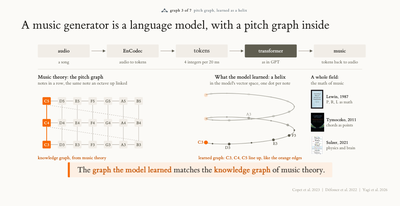
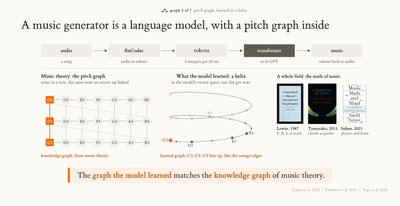
Slide 6: helix moved next to the pitch graph, books larger in a row with sharper covers, keybox lower. Thumbs regenerated
Claude-Session: https://claude.ai/code/session_01CwywQbHke1EKdwXqbCrAvs

diff --git a/graph-inside/2026-11-19-cs-colloquium/index.html b/graph-inside/2026-11-19-cs-colloquium/index.html
@@ -780,11 +780,11 @@ var t=setInterval(function(){if(window.Reveal&&Reveal.on){clearInterval(t);Revea
 
 <section data-ch="0">
   <h2>A music generator is a language model, with a pitch graph inside</h2><span class="graphtag"><svg viewBox="0 0 22 14"><line x1="3" y1="11" x2="11" y2="3" stroke="currentColor" stroke-width="1.3"/><line x1="11" y1="3" x2="19" y2="11" stroke="currentColor" stroke-width="1.3"/><line x1="3" y1="11" x2="19" y2="11" stroke="currentColor" stroke-width="1.3"/><circle cx="3" cy="11" r="2.4" fill="currentColor"/><circle cx="11" cy="3" r="2.4" fill="currentColor"/><circle cx="19" cy="11" r="2.4" fill="currentColor"/></svg><b>graph 3 of 7</b> pitch graph, learned as a helix</span>
-  <svg viewBox="0 0 1180 424" style="width:100%;max-width:1160px;height:auto;max-height:424px;display:block;margin:0 auto"><defs><marker id="maa" viewBox="0 0 10 10" refX="8" refY="5" markerWidth="6" markerHeight="6" orient="auto-start-reverse"><path d="M0,0 L10,5 L0,10 z" fill="#5F5D50"/></marker><marker id="mao" viewBox="0 0 10 10" refX="8" refY="5" markerWidth="6" markerHeight="6" orient="auto-start-reverse"><path d="M0,0 L10,5 L0,10 z" fill="#F76902"/></marker><marker id="mat" viewBox="0 0 10 10" refX="8" refY="5" markerWidth="6" markerHeight="6" orient="auto-start-reverse"><path d="M0,0 L10,5 L0,10 z" fill="#4C5B66"/></marker><marker id="mak" viewBox="0 0 10 10" refX="8" refY="5" markerWidth="6" markerHeight="6" orient="auto-start-reverse"><path d="M0,0 L10,5 L0,10 z" fill="#1F1E1B"/></marker><marker id="mag" viewBox="0 0 10 10" refX="8" refY="5" markerWidth="6" markerHeight="6" orient="auto-start-reverse"><path d="M0,0 L10,5 L0,10 z" fill="#ACA39A"/></marker><radialGradient id="magl"><stop offset="0" stop-color="#F76902" stop-opacity=".5"/><stop offset="1" stop-color="#F76902" stop-opacity="0"/></radialGradient><radialGradient id="magt"><stop offset="0" stop-color="#4C5B66" stop-opacity=".45"/><stop offset="1" stop-color="#4C5B66" stop-opacity="0"/></radialGradient></defs><defs><marker id="axk" viewBox="0 0 10 10" refX="8" refY="5" markerWidth="5" markerHeight="5" orient="auto"><path d="M0,0 L10,5 L0,10 z" fill="#1F1E1B"/></marker></defs><rect x="40" y="24" width="176" height="44" rx="3" fill="#F1EDE7" stroke="none" stroke-width="0" /><text x="128.0" y="51" font-size="17.5" font-weight="600" fill="#1F1E1B" text-anchor="middle" >audio</text><text x="128.0" y="88" font-size="15" font-weight="400" fill="#5F5D50" text-anchor="middle" >a song</text><path d="M222,46 L268,46" stroke="#ACA39A" stroke-width="1.6" fill="none" marker-end="url(#maa)"/><rect x="274" y="24" width="176" height="44" rx="3" fill="#F1EDE7" stroke="none" stroke-width="0" /><text x="362.0" y="51" font-size="17.5" font-weight="600" fill="#1F1E1B" text-anchor="middle" >EnCodec</text><text x="362.0" y="88" font-size="15" font-weight="400" fill="#5F5D50" text-anchor="middle" >audio to tokens</text><path d="M456,46 L502,46" stroke="#ACA39A" stroke-width="1.6" fill="none" marker-end="url(#maa)"/><rect x="508" y="24" width="176" height="44" rx="3" fill="#F1EDE7" stroke="none" stroke-width="0" /><text font-family="et-book,Georgia,serif" style="font-size-adjust:none" x="596.0" y="51" font-size="20.8" font-weight="400" fill="#1F1E1B" text-anchor="middle" >tokens</text><text x="596.0" y="88" font-size="15" font-weight="400" fill="#5F5D50" text-anchor="middle" >4 integers per 20 ms</text><path d="M690,46 L736,46" stroke="#ACA39A" stroke-width="1.6" fill="none" marker-end="url(#maa)"/><rect x="742" y="24" width="176" height="44" rx="3" fill="#5F5D50" stroke="none" stroke-width="0" /><text x="830.0" y="51" font-size="17.5" font-weight="600" fill="#fff" text-anchor="middle" >transformer</text><text x="830.0" y="88" font-size="15" font-weight="400" fill="#5F5D50" text-anchor="middle" >as in GPT</text><path d="M924,46 L970,46" stroke="#ACA39A" stroke-width="1.6" fill="none" marker-end="url(#maa)"/><rect x="976" y="24" width="176" height="44" rx="3" fill="#F1EDE7" stroke="none" stroke-width="0" /><text x="1064.0" y="51" font-size="17.5" font-weight="600" fill="#1F1E1B" text-anchor="middle" >music</text><text x="1064.0" y="88" font-size="15" font-weight="400" fill="#5F5D50" text-anchor="middle" >tokens back to audio</text><line x1="40" y1="108" x2="1140" y2="108" stroke="#D7D2CB" stroke-width="1" /><g class="fragment" data-fragment-index="1"><text x="40" y="140" font-size="18.5" font-weight="600" fill="#1F1E1B" text-anchor="start" >Music theory: the pitch graph</text><text x="40" y="160" font-size="15.5" font-weight="400" fill="#5F5D50" text-anchor="start" >notes in a row, the same note an octave up linked</text><line x1="84" y1="364" x2="108" y2="364" stroke="#ACA39A" stroke-width="1.4" /><line x1="136" y1="364" x2="160" y2="364" stroke="#ACA39A" stroke-width="1.4" /><line x1="188" y1="364" x2="212" y2="364" stroke="#ACA39A" stroke-width="1.4" /><line x1="240" y1="364" x2="264" y2="364" stroke="#ACA39A" stroke-width="1.4" /><line x1="292" y1="364" x2="316" y2="364" stroke="#ACA39A" stroke-width="1.4" /><line x1="344" y1="364" x2="368" y2="364" stroke="#ACA39A" stroke-width="1.4" /><line x1="382" y1="351" x2="70" y2="303" stroke="#ACA39A" stroke-width="1.2" stroke-dasharray="3 4"/><line x1="84" y1="290" x2="108" y2="290" stroke="#ACA39A" stroke-width="1.4" /><line x1="136" y1="290" x2="160" y2="290" stroke="#ACA39A" stroke-width="1.4" /><line x1="188" y1="290" x2="212" y2="290" stroke="#ACA39A" stroke-width="1.4" /><line x1="240" y1="290" x2="264" y2="290" stroke="#ACA39A" stroke-width="1.4" /><line x1="292" y1="290" x2="316" y2="290" stroke="#ACA39A" stroke-width="1.4" /><line x1="344" y1="290" x2="368" y2="290" stroke="#ACA39A" stroke-width="1.4" /><line x1="382" y1="277" x2="70" y2="229" stroke="#ACA39A" stroke-width="1.2" stroke-dasharray="3 4"/><line x1="84" y1="216" x2="108" y2="216" stroke="#ACA39A" stroke-width="1.4" /><line x1="136" y1="216" x2="160" y2="216" stroke="#ACA39A" stroke-width="1.4" /><line x1="188" y1="216" x2="212" y2="216" stroke="#ACA39A" stroke-width="1.4" /><line x1="240" y1="216" x2="264" y2="216" stroke="#ACA39A" stroke-width="1.4" /><line x1="292" y1="216" x2="316" y2="216" stroke="#ACA39A" stroke-width="1.4" /><line x1="344" y1="216" x2="368" y2="216" stroke="#ACA39A" stroke-width="1.4" /><line x1="70" y1="351" x2="70" y2="303" stroke="#F76902" stroke-width="2.5" /><line x1="70" y1="277" x2="70" y2="229" stroke="#F76902" stroke-width="2.5" /><line x1="122" y1="351" x2="122" y2="303" stroke="#C9C4BD" stroke-width="1.6" /><line x1="122" y1="277" x2="122" y2="229" stroke="#C9C4BD" stroke-width="1.6" /><line x1="174" y1="351" x2="174" y2="303" stroke="#C9C4BD" stroke-width="1.6" /><line x1="174" y1="277" x2="174" y2="229" stroke="#C9C4BD" stroke-width="1.6" /><line x1="226" y1="351" x2="226" y2="303" stroke="#C9C4BD" stroke-width="1.6" /><line x1="226" y1="277" x2="226" y2="229" stroke="#C9C4BD" stroke-width="1.6" /><line x1="278" y1="351" x2="278" y2="303" stroke="#C9C4BD" stroke-width="1.6" /><line x1="278" y1="277" x2="278" y2="229" stroke="#C9C4BD" stroke-width="1.6" /><line x1="330" y1="351" x2="330" y2="303" stroke="#C9C4BD" stroke-width="1.6" /><line x1="330" y1="277" x2="330" y2="229" stroke="#C9C4BD" stroke-width="1.6" /><line x1="382" y1="351" x2="382" y2="303" stroke="#C9C4BD" stroke-width="1.6" /><line x1="382" y1="277" x2="382" y2="229" stroke="#C9C4BD" stroke-width="1.6" /><rect x="56" y="351" width="28" height="26" rx="3" fill="#F76902" stroke="none" stroke-width="1.5" /><text x="70" y="369" font-size="14" font-weight="600" fill="#fff" text-anchor="middle" >C3</text><rect x="108" y="351" width="28" height="26" rx="3" fill="#F1EDE7" stroke="none" stroke-width="1.5" /><text x="122" y="369" font-size="14" font-weight="600" fill="#5F5D50" text-anchor="middle" >D3</text><rect x="160" y="351" width="28" height="26" rx="3" fill="#F1EDE7" stroke="none" stroke-width="1.5" /><text x="174" y="369" font-size="14" font-weight="600" fill="#5F5D50" text-anchor="middle" >E3</text><rect x="212" y="351" width="28" height="26" rx="3" fill="#F1EDE7" stroke="none" stroke-width="1.5" /><text x="226" y="369" font-size="14" font-weight="600" fill="#5F5D50" text-anchor="middle" >F3</text><rect x="264" y="351" width="28" height="26" rx="3" fill="#F1EDE7" stroke="none" stroke-width="1.5" /><text x="278" y="369" font-size="14" font-weight="600" fill="#5F5D50" text-anchor="middle" >G3</text><rect x="316" y="351" width="28" height="26" rx="3" fill="#F1EDE7" stroke="none" stroke-width="1.5" /><text x="330" y="369" font-size="14" font-weight="600" fill="#5F5D50" text-anchor="middle" >A3</text><rect x="368" y="351" width="28" height="26" rx="3" fill="#F1EDE7" stroke="none" stroke-width="1.5" /><text x="382" y="369" font-size="14" font-weight="600" fill="#5F5D50" text-anchor="middle" >B3</text><rect x="56" y="277" width="28" height="26" rx="3" fill="#F76902" stroke="none" stroke-width="1.5" /><text x="70" y="295" font-size="14" font-weight="600" fill="#fff" text-anchor="middle" >C4</text><rect x="108" y="277" width="28" height="26" rx="3" fill="#F1EDE7" stroke="none" stroke-width="1.5" /><text x="122" y="295" font-size="14" font-weight="600" fill="#5F5D50" text-anchor="middle" >D4</text><rect x="160" y="277" width="28" height="26" rx="3" fill="#F1EDE7" stroke="none" stroke-width="1.5" /><text x="174" y="295" font-size="14" font-weight="600" fill="#5F5D50" text-anchor="middle" >E4</text><rect x="212" y="277" width="28" height="26" rx="3" fill="#F1EDE7" stroke="none" stroke-width="1.5" /><text x="226" y="295" font-size="14" font-weight="600" fill="#5F5D50" text-anchor="middle" >F4</text><rect x="264" y="277" width="28" height="26" rx="3" fill="#F1EDE7" stroke="none" stroke-width="1.5" /><text x="278" y="295" font-size="14" font-weight="600" fill="#5F5D50" text-anchor="middle" >G4</text><rect x="316" y="277" width="28" height="26" rx="3" fill="#F1EDE7" stroke="none" stroke-width="1.5" /><text x="330" y="295" font-size="14" font-weight="600" fill="#5F5D50" text-anchor="middle" >A4</text><rect x="368" y="277" width="28" height="26" rx="3" fill="#F1EDE7" stroke="none" stroke-width="1.5" /><text x="382" y="295" font-size="14" font-weight="600" fill="#5F5D50" text-anchor="middle" >B4</text><rect x="56" y="203" width="28" height="26" rx="3" fill="#F76902" stroke="none" stroke-width="1.5" /><text x="70" y="221" font-size="14" font-weight="600" fill="#fff" text-anchor="middle" >C5</text><rect x="108" y="203" width="28" height="26" rx="3" fill="#F1EDE7" stroke="none" stroke-width="1.5" /><text x="122" y="221" font-size="14" font-weight="600" fill="#5F5D50" text-anchor="middle" >D5</text><rect x="160" y="203" width="28" height="26" rx="3" fill="#F1EDE7" stroke="none" stroke-width="1.5" /><text x="174" y="221" font-size="14" font-weight="600" fill="#5F5D50" text-anchor="middle" >E5</text><rect x="212" y="203" width="28" height="26" rx="3" fill="#F1EDE7" stroke="none" stroke-width="1.5" /><text x="226" y="221" font-size="14" font-weight="600" fill="#5F5D50" text-anchor="middle" >F5</text><rect x="264" y="203" width="28" height="26" rx="3" fill="#F1EDE7" stroke="none" stroke-width="1.5" /><text x="278" y="221" font-size="14" font-weight="600" fill="#5F5D50" text-anchor="middle" >G5</text><rect x="316" y="203" width="28" height="26" rx="3" fill="#F1EDE7" stroke="none" stroke-width="1.5" /><text x="330" y="221" font-size="14" font-weight="600" fill="#5F5D50" text-anchor="middle" >A5</text><rect x="368" y="203" width="28" height="26" rx="3" fill="#F1EDE7" stroke="none" stroke-width="1.5" /><text x="382" y="221" font-size="14" font-weight="600" fill="#5F5D50" text-anchor="middle" >B5</text><text x="40" y="414" font-size="15.5" font-weight="600" fill="#C45200" text-anchor="start" >knowledge graph, from music theory</text></g><g class="fragment" data-fragment-index="2"><text x="760" y="140" font-size="18.5" font-weight="600" fill="#1F1E1B" text-anchor="middle" data-keep="1">What the model learned: a helix</text><text x="760" y="160" font-size="15.5" font-weight="400" fill="#5F5D50" text-anchor="middle" >in the model's vector space, one dot per note</text><g id="hx3d"><path id="hx3d-line" d="" fill="none" stroke="#5F5D50" stroke-width="2" stroke-opacity=".5"/><circle id="hx3d-0" r="6.5" fill="#F76902"/><circle id="hx3d-1" r="2.6" fill="#5F5D50"/><circle id="hx3d-2" r="4.5" fill="#5F5D50"/><circle id="hx3d-3" r="2.6" fill="#5F5D50"/><circle id="hx3d-4" r="4.5" fill="#5F5D50"/><circle id="hx3d-5" r="4.5" fill="#5F5D50"/><circle id="hx3d-6" r="2.6" fill="#5F5D50"/><circle id="hx3d-7" r="4.5" fill="#5F5D50"/><circle id="hx3d-8" r="2.6" fill="#5F5D50"/><circle id="hx3d-9" r="4.5" fill="#5F5D50"/><circle id="hx3d-10" r="2.6" fill="#5F5D50"/><circle id="hx3d-11" r="4.5" fill="#5F5D50"/><circle id="hx3d-12" r="6.5" fill="#F76902"/><circle id="hx3d-13" r="2.6" fill="#5F5D50"/><circle id="hx3d-14" r="4.5" fill="#5F5D50"/><circle id="hx3d-15" r="2.6" fill="#5F5D50"/><circle id="hx3d-16" r="4.5" fill="#5F5D50"/><circle id="hx3d-17" r="4.5" fill="#5F5D50"/><circle id="hx3d-18" r="2.6" fill="#5F5D50"/><circle id="hx3d-19" r="4.5" fill="#5F5D50"/><circle id="hx3d-20" r="2.6" fill="#5F5D50"/><circle id="hx3d-21" r="4.5" fill="#5F5D50"/><circle id="hx3d-22" r="2.6" fill="#5F5D50"/><circle id="hx3d-23" r="4.5" fill="#5F5D50"/><circle id="hx3d-24" r="6.5" fill="#F76902"/><line id="hx3d-axis" stroke="#F76902" stroke-width="2.5" stroke-dasharray="5 4"/><text id="hx3d-l0" font-size="15" font-weight="600" fill="#C45200">C3</text><text id="hx3d-l2" font-size="14" font-weight="600" fill="#5F5D50">D3</text><text id="hx3d-l4" font-size="14" font-weight="600" fill="#5F5D50">E3</text><text id="hx3d-l5" font-size="14" font-weight="600" fill="#5F5D50">F3</text><text id="hx3d-l7" font-size="14" font-weight="600" fill="#5F5D50">G3</text><text id="hx3d-l9" font-size="14" font-weight="600" fill="#5F5D50">A3</text><text id="hx3d-l11" font-size="14" font-weight="600" fill="#5F5D50">B3</text><text id="hx3d-l12" font-size="15" font-weight="600" fill="#C45200">C4</text><text id="hx3d-l14" font-size="14" font-weight="600" fill="#5F5D50">D4</text><text id="hx3d-l16" font-size="14" font-weight="600" fill="#5F5D50">E4</text><text id="hx3d-l17" font-size="14" font-weight="600" fill="#5F5D50">F4</text><text id="hx3d-l19" font-size="14" font-weight="600" fill="#5F5D50">G4</text><text id="hx3d-l21" font-size="14" font-weight="600" fill="#5F5D50">A4</text><text id="hx3d-l23" font-size="14" font-weight="600" fill="#5F5D50">B4</text><text id="hx3d-l24" font-size="15" font-weight="600" fill="#C45200">C5</text></g><text x="760" y="414" font-size="15.5" font-weight="600" fill="#C45200" text-anchor="middle" >learned graph: C3, C4, C5 line up, like the orange edges</text></g><g class="fragment" data-fragment-index="4"><text x="966" y="140" font-size="16.5" font-weight="600" fill="#1F1E1B" text-anchor="start" >A whole field:</text><text x="966" y="160" font-size="15.5" font-weight="400" fill="#5F5D50" text-anchor="start" >the math of music</text><image href="figs/book-lewin1987.jpg" x="966" y="178" width="42" height="64" preserveAspectRatio="xMidYMid meet" /><text x="1018" y="206" font-size="15" font-weight="600" fill="#1F1E1B" text-anchor="start" >Lewin, 1987</text><text x="1018" y="224" font-size="14.5" font-weight="400" fill="#5F5D50" text-anchor="start" >P, R, L as math</text><image href="figs/book-tymoczko2011.jpg" x="966" y="256" width="45" height="64" preserveAspectRatio="xMidYMid meet" /><text x="1018" y="284" font-size="15" font-weight="600" fill="#1F1E1B" text-anchor="start" >Tymoczko, 2011</text><text x="1018" y="302" font-size="14.5" font-weight="400" fill="#5F5D50" text-anchor="start" >chords as points</text><image href="figs/book-sulzer2021.jpg" x="966" y="334" width="42" height="64" preserveAspectRatio="xMidYMid meet" /><text x="1018" y="362" font-size="15" font-weight="600" fill="#1F1E1B" text-anchor="start" >Sulzer, 2021</text><text x="1018" y="380" font-size="14.5" font-weight="400" fill="#5F5D50" text-anchor="start" >physics and brain</text></g></svg>
-  <p class="fragment" data-fragment-index="3" style="text-align:center;margin:0 1.1em 0"><span style="display:inline-block;background:#FDEFE3;border-left:7px solid #F76902;border-radius:3px;padding:.32em 1em;font-family:et-book,Georgia,serif;font-size:.84em;color:#1F1E1B;line-height:1.35">The <b style="color:#C45200;font-weight:700">graph the model learned</b> matches the <b style="color:#C45200;font-weight:700">knowledge graph</b> of music theory.</span></p>
+  <svg viewBox="0 0 1180 424" style="width:100%;max-width:1160px;height:auto;max-height:424px;display:block;margin:0 auto"><defs><marker id="maa" viewBox="0 0 10 10" refX="8" refY="5" markerWidth="6" markerHeight="6" orient="auto-start-reverse"><path d="M0,0 L10,5 L0,10 z" fill="#5F5D50"/></marker><marker id="mao" viewBox="0 0 10 10" refX="8" refY="5" markerWidth="6" markerHeight="6" orient="auto-start-reverse"><path d="M0,0 L10,5 L0,10 z" fill="#F76902"/></marker><marker id="mat" viewBox="0 0 10 10" refX="8" refY="5" markerWidth="6" markerHeight="6" orient="auto-start-reverse"><path d="M0,0 L10,5 L0,10 z" fill="#4C5B66"/></marker><marker id="mak" viewBox="0 0 10 10" refX="8" refY="5" markerWidth="6" markerHeight="6" orient="auto-start-reverse"><path d="M0,0 L10,5 L0,10 z" fill="#1F1E1B"/></marker><marker id="mag" viewBox="0 0 10 10" refX="8" refY="5" markerWidth="6" markerHeight="6" orient="auto-start-reverse"><path d="M0,0 L10,5 L0,10 z" fill="#ACA39A"/></marker><radialGradient id="magl"><stop offset="0" stop-color="#F76902" stop-opacity=".5"/><stop offset="1" stop-color="#F76902" stop-opacity="0"/></radialGradient><radialGradient id="magt"><stop offset="0" stop-color="#4C5B66" stop-opacity=".45"/><stop offset="1" stop-color="#4C5B66" stop-opacity="0"/></radialGradient></defs><defs><marker id="axk" viewBox="0 0 10 10" refX="8" refY="5" markerWidth="5" markerHeight="5" orient="auto"><path d="M0,0 L10,5 L0,10 z" fill="#1F1E1B"/></marker></defs><rect x="40" y="24" width="176" height="44" rx="3" fill="#F1EDE7" stroke="none" stroke-width="0" /><text x="128.0" y="51" font-size="17.5" font-weight="600" fill="#1F1E1B" text-anchor="middle" >audio</text><text x="128.0" y="88" font-size="15" font-weight="400" fill="#5F5D50" text-anchor="middle" >a song</text><path d="M222,46 L268,46" stroke="#ACA39A" stroke-width="1.6" fill="none" marker-end="url(#maa)"/><rect x="274" y="24" width="176" height="44" rx="3" fill="#F1EDE7" stroke="none" stroke-width="0" /><text x="362.0" y="51" font-size="17.5" font-weight="600" fill="#1F1E1B" text-anchor="middle" >EnCodec</text><text x="362.0" y="88" font-size="15" font-weight="400" fill="#5F5D50" text-anchor="middle" >audio to tokens</text><path d="M456,46 L502,46" stroke="#ACA39A" stroke-width="1.6" fill="none" marker-end="url(#maa)"/><rect x="508" y="24" width="176" height="44" rx="3" fill="#F1EDE7" stroke="none" stroke-width="0" /><text font-family="et-book,Georgia,serif" style="font-size-adjust:none" x="596.0" y="51" font-size="20.8" font-weight="400" fill="#1F1E1B" text-anchor="middle" >tokens</text><text x="596.0" y="88" font-size="15" font-weight="400" fill="#5F5D50" text-anchor="middle" >4 integers per 20 ms</text><path d="M690,46 L736,46" stroke="#ACA39A" stroke-width="1.6" fill="none" marker-end="url(#maa)"/><rect x="742" y="24" width="176" height="44" rx="3" fill="#5F5D50" stroke="none" stroke-width="0" /><text x="830.0" y="51" font-size="17.5" font-weight="600" fill="#fff" text-anchor="middle" >transformer</text><text x="830.0" y="88" font-size="15" font-weight="400" fill="#5F5D50" text-anchor="middle" >as in GPT</text><path d="M924,46 L970,46" stroke="#ACA39A" stroke-width="1.6" fill="none" marker-end="url(#maa)"/><rect x="976" y="24" width="176" height="44" rx="3" fill="#F1EDE7" stroke="none" stroke-width="0" /><text x="1064.0" y="51" font-size="17.5" font-weight="600" fill="#1F1E1B" text-anchor="middle" >music</text><text x="1064.0" y="88" font-size="15" font-weight="400" fill="#5F5D50" text-anchor="middle" >tokens back to audio</text><line x1="40" y1="108" x2="1140" y2="108" stroke="#D7D2CB" stroke-width="1" /><g class="fragment" data-fragment-index="1"><text x="40" y="140" font-size="18.5" font-weight="600" fill="#1F1E1B" text-anchor="start" >Music theory: the pitch graph</text><text x="40" y="160" font-size="15.5" font-weight="400" fill="#5F5D50" text-anchor="start" >notes in a row, the same note an octave up linked</text><line x1="84" y1="364" x2="112" y2="364" stroke="#ACA39A" stroke-width="1.4" /><line x1="140" y1="364" x2="168" y2="364" stroke="#ACA39A" stroke-width="1.4" /><line x1="196" y1="364" x2="224" y2="364" stroke="#ACA39A" stroke-width="1.4" /><line x1="252" y1="364" x2="280" y2="364" stroke="#ACA39A" stroke-width="1.4" /><line x1="308" y1="364" x2="336" y2="364" stroke="#ACA39A" stroke-width="1.4" /><line x1="364" y1="364" x2="392" y2="364" stroke="#ACA39A" stroke-width="1.4" /><line x1="406" y1="351" x2="70" y2="303" stroke="#ACA39A" stroke-width="1.2" stroke-dasharray="3 4"/><line x1="84" y1="290" x2="112" y2="290" stroke="#ACA39A" stroke-width="1.4" /><line x1="140" y1="290" x2="168" y2="290" stroke="#ACA39A" stroke-width="1.4" /><line x1="196" y1="290" x2="224" y2="290" stroke="#ACA39A" stroke-width="1.4" /><line x1="252" y1="290" x2="280" y2="290" stroke="#ACA39A" stroke-width="1.4" /><line x1="308" y1="290" x2="336" y2="290" stroke="#ACA39A" stroke-width="1.4" /><line x1="364" y1="290" x2="392" y2="290" stroke="#ACA39A" stroke-width="1.4" /><line x1="406" y1="277" x2="70" y2="229" stroke="#ACA39A" stroke-width="1.2" stroke-dasharray="3 4"/><line x1="84" y1="216" x2="112" y2="216" stroke="#ACA39A" stroke-width="1.4" /><line x1="140" y1="216" x2="168" y2="216" stroke="#ACA39A" stroke-width="1.4" /><line x1="196" y1="216" x2="224" y2="216" stroke="#ACA39A" stroke-width="1.4" /><line x1="252" y1="216" x2="280" y2="216" stroke="#ACA39A" stroke-width="1.4" /><line x1="308" y1="216" x2="336" y2="216" stroke="#ACA39A" stroke-width="1.4" /><line x1="364" y1="216" x2="392" y2="216" stroke="#ACA39A" stroke-width="1.4" /><line x1="70" y1="351" x2="70" y2="303" stroke="#F76902" stroke-width="2.5" /><line x1="70" y1="277" x2="70" y2="229" stroke="#F76902" stroke-width="2.5" /><line x1="126" y1="351" x2="126" y2="303" stroke="#C9C4BD" stroke-width="1.6" /><line x1="126" y1="277" x2="126" y2="229" stroke="#C9C4BD" stroke-width="1.6" /><line x1="182" y1="351" x2="182" y2="303" stroke="#C9C4BD" stroke-width="1.6" /><line x1="182" y1="277" x2="182" y2="229" stroke="#C9C4BD" stroke-width="1.6" /><line x1="238" y1="351" x2="238" y2="303" stroke="#C9C4BD" stroke-width="1.6" /><line x1="238" y1="277" x2="238" y2="229" stroke="#C9C4BD" stroke-width="1.6" /><line x1="294" y1="351" x2="294" y2="303" stroke="#C9C4BD" stroke-width="1.6" /><line x1="294" y1="277" x2="294" y2="229" stroke="#C9C4BD" stroke-width="1.6" /><line x1="350" y1="351" x2="350" y2="303" stroke="#C9C4BD" stroke-width="1.6" /><line x1="350" y1="277" x2="350" y2="229" stroke="#C9C4BD" stroke-width="1.6" /><line x1="406" y1="351" x2="406" y2="303" stroke="#C9C4BD" stroke-width="1.6" /><line x1="406" y1="277" x2="406" y2="229" stroke="#C9C4BD" stroke-width="1.6" /><rect x="56" y="351" width="28" height="26" rx="3" fill="#F76902" stroke="none" stroke-width="1.5" /><text x="70" y="369" font-size="14" font-weight="600" fill="#fff" text-anchor="middle" >C3</text><rect x="112" y="351" width="28" height="26" rx="3" fill="#F1EDE7" stroke="none" stroke-width="1.5" /><text x="126" y="369" font-size="14" font-weight="600" fill="#5F5D50" text-anchor="middle" >D3</text><rect x="168" y="351" width="28" height="26" rx="3" fill="#F1EDE7" stroke="none" stroke-width="1.5" /><text x="182" y="369" font-size="14" font-weight="600" fill="#5F5D50" text-anchor="middle" >E3</text><rect x="224" y="351" width="28" height="26" rx="3" fill="#F1EDE7" stroke="none" stroke-width="1.5" /><text x="238" y="369" font-size="14" font-weight="600" fill="#5F5D50" text-anchor="middle" >F3</text><rect x="280" y="351" width="28" height="26" rx="3" fill="#F1EDE7" stroke="none" stroke-width="1.5" /><text x="294" y="369" font-size="14" font-weight="600" fill="#5F5D50" text-anchor="middle" >G3</text><rect x="336" y="351" width="28" height="26" rx="3" fill="#F1EDE7" stroke="none" stroke-width="1.5" /><text x="350" y="369" font-size="14" font-weight="600" fill="#5F5D50" text-anchor="middle" >A3</text><rect x="392" y="351" width="28" height="26" rx="3" fill="#F1EDE7" stroke="none" stroke-width="1.5" /><text x="406" y="369" font-size="14" font-weight="600" fill="#5F5D50" text-anchor="middle" >B3</text><rect x="56" y="277" width="28" height="26" rx="3" fill="#F76902" stroke="none" stroke-width="1.5" /><text x="70" y="295" font-size="14" font-weight="600" fill="#fff" text-anchor="middle" >C4</text><rect x="112" y="277" width="28" height="26" rx="3" fill="#F1EDE7" stroke="none" stroke-width="1.5" /><text x="126" y="295" font-size="14" font-weight="600" fill="#5F5D50" text-anchor="middle" >D4</text><rect x="168" y="277" width="28" height="26" rx="3" fill="#F1EDE7" stroke="none" stroke-width="1.5" /><text x="182" y="295" font-size="14" font-weight="600" fill="#5F5D50" text-anchor="middle" >E4</text><rect x="224" y="277" width="28" height="26" rx="3" fill="#F1EDE7" stroke="none" stroke-width="1.5" /><text x="238" y="295" font-size="14" font-weight="600" fill="#5F5D50" text-anchor="middle" >F4</text><rect x="280" y="277" width="28" height="26" rx="3" fill="#F1EDE7" stroke="none" stroke-width="1.5" /><text x="294" y="295" font-size="14" font-weight="600" fill="#5F5D50" text-anchor="middle" >G4</text><rect x="336" y="277" width="28" height="26" rx="3" fill="#F1EDE7" stroke="none" stroke-width="1.5" /><text x="350" y="295" font-size="14" font-weight="600" fill="#5F5D50" text-anchor="middle" >A4</text><rect x="392" y="277" width="28" height="26" rx="3" fill="#F1EDE7" stroke="none" stroke-width="1.5" /><text x="406" y="295" font-size="14" font-weight="600" fill="#5F5D50" text-anchor="middle" >B4</text><rect x="56" y="203" width="28" height="26" rx="3" fill="#F76902" stroke="none" stroke-width="1.5" /><text x="70" y="221" font-size="14" font-weight="600" fill="#fff" text-anchor="middle" >C5</text><rect x="112" y="203" width="28" height="26" rx="3" fill="#F1EDE7" stroke="none" stroke-width="1.5" /><text x="126" y="221" font-size="14" font-weight="600" fill="#5F5D50" text-anchor="middle" >D5</text><rect x="168" y="203" width="28" height="26" rx="3" fill="#F1EDE7" stroke="none" stroke-width="1.5" /><text x="182" y="221" font-size="14" font-weight="600" fill="#5F5D50" text-anchor="middle" >E5</text><rect x="224" y="203" width="28" height="26" rx="3" fill="#F1EDE7" stroke="none" stroke-width="1.5" /><text x="238" y="221" font-size="14" font-weight="600" fill="#5F5D50" text-anchor="middle" >F5</text><rect x="280" y="203" width="28" height="26" rx="3" fill="#F1EDE7" stroke="none" stroke-width="1.5" /><text x="294" y="221" font-size="14" font-weight="600" fill="#5F5D50" text-anchor="middle" >G5</text><rect x="336" y="203" width="28" height="26" rx="3" fill="#F1EDE7" stroke="none" stroke-width="1.5" /><text x="350" y="221" font-size="14" font-weight="600" fill="#5F5D50" text-anchor="middle" >A5</text><rect x="392" y="203" width="28" height="26" rx="3" fill="#F1EDE7" stroke="none" stroke-width="1.5" /><text x="406" y="221" font-size="14" font-weight="600" fill="#5F5D50" text-anchor="middle" >B5</text><text x="40" y="414" font-size="15.5" font-weight="600" fill="#C45200" text-anchor="start" >knowledge graph, from music theory</text></g><g class="fragment" data-fragment-index="2"><text x="628" y="140" font-size="18.5" font-weight="600" fill="#1F1E1B" text-anchor="middle" data-keep="1">What the model learned: a helix</text><text x="628" y="160" font-size="15.5" font-weight="400" fill="#5F5D50" text-anchor="middle" >in the model's vector space, one dot per note</text><g id="hx3d"><path id="hx3d-line" d="" fill="none" stroke="#5F5D50" stroke-width="2" stroke-opacity=".5"/><circle id="hx3d-0" r="6.5" fill="#F76902"/><circle id="hx3d-1" r="2.6" fill="#5F5D50"/><circle id="hx3d-2" r="4.5" fill="#5F5D50"/><circle id="hx3d-3" r="2.6" fill="#5F5D50"/><circle id="hx3d-4" r="4.5" fill="#5F5D50"/><circle id="hx3d-5" r="4.5" fill="#5F5D50"/><circle id="hx3d-6" r="2.6" fill="#5F5D50"/><circle id="hx3d-7" r="4.5" fill="#5F5D50"/><circle id="hx3d-8" r="2.6" fill="#5F5D50"/><circle id="hx3d-9" r="4.5" fill="#5F5D50"/><circle id="hx3d-10" r="2.6" fill="#5F5D50"/><circle id="hx3d-11" r="4.5" fill="#5F5D50"/><circle id="hx3d-12" r="6.5" fill="#F76902"/><circle id="hx3d-13" r="2.6" fill="#5F5D50"/><circle id="hx3d-14" r="4.5" fill="#5F5D50"/><circle id="hx3d-15" r="2.6" fill="#5F5D50"/><circle id="hx3d-16" r="4.5" fill="#5F5D50"/><circle id="hx3d-17" r="4.5" fill="#5F5D50"/><circle id="hx3d-18" r="2.6" fill="#5F5D50"/><circle id="hx3d-19" r="4.5" fill="#5F5D50"/><circle id="hx3d-20" r="2.6" fill="#5F5D50"/><circle id="hx3d-21" r="4.5" fill="#5F5D50"/><circle id="hx3d-22" r="2.6" fill="#5F5D50"/><circle id="hx3d-23" r="4.5" fill="#5F5D50"/><circle id="hx3d-24" r="6.5" fill="#F76902"/><line id="hx3d-axis" stroke="#F76902" stroke-width="2.5" stroke-dasharray="5 4"/><text id="hx3d-l0" font-size="15" font-weight="600" fill="#C45200">C3</text><text id="hx3d-l2" font-size="14" font-weight="600" fill="#5F5D50">D3</text><text id="hx3d-l4" font-size="14" font-weight="600" fill="#5F5D50">E3</text><text id="hx3d-l5" font-size="14" font-weight="600" fill="#5F5D50">F3</text><text id="hx3d-l7" font-size="14" font-weight="600" fill="#5F5D50">G3</text><text id="hx3d-l9" font-size="14" font-weight="600" fill="#5F5D50">A3</text><text id="hx3d-l11" font-size="14" font-weight="600" fill="#5F5D50">B3</text><text id="hx3d-l12" font-size="15" font-weight="600" fill="#C45200">C4</text><text id="hx3d-l14" font-size="14" font-weight="600" fill="#5F5D50">D4</text><text id="hx3d-l16" font-size="14" font-weight="600" fill="#5F5D50">E4</text><text id="hx3d-l17" font-size="14" font-weight="600" fill="#5F5D50">F4</text><text id="hx3d-l19" font-size="14" font-weight="600" fill="#5F5D50">G4</text><text id="hx3d-l21" font-size="14" font-weight="600" fill="#5F5D50">A4</text><text id="hx3d-l23" font-size="14" font-weight="600" fill="#5F5D50">B4</text><text id="hx3d-l24" font-size="15" font-weight="600" fill="#C45200">C5</text></g><text x="628" y="414" font-size="15.5" font-weight="600" fill="#C45200" text-anchor="middle" >learned graph: C3, C4, C5 line up, like the orange edges</text></g><g class="fragment" data-fragment-index="4"><text x="856" y="140" font-size="16.5" font-weight="600" fill="#1F1E1B" text-anchor="start" >A whole field: the math of music</text><image href="figs/book-lewin1987.jpg" x="856" y="160" width="92" height="140" preserveAspectRatio="xMidYMid meet" /><text x="856" y="320" font-size="15" font-weight="600" fill="#1F1E1B" text-anchor="start" >Lewin, 1987</text><text x="856" y="337" font-size="14" font-weight="400" fill="#5F5D50" text-anchor="start" >P, R, L as math</text><image href="figs/book-tymoczko2011.jpg" x="964" y="160" width="98" height="140" preserveAspectRatio="xMidYMid meet" /><text x="964" y="320" font-size="15" font-weight="600" fill="#1F1E1B" text-anchor="start" >Tymoczko, 2011</text><text x="964" y="337" font-size="14" font-weight="400" fill="#5F5D50" text-anchor="start" >chords as points</text><image href="figs/book-sulzer2021.jpg" x="1078" y="160" width="93" height="140" preserveAspectRatio="xMidYMid meet" /><text x="1078" y="320" font-size="15" font-weight="600" fill="#1F1E1B" text-anchor="start" >Sulzer, 2021</text><text x="1078" y="337" font-size="14" font-weight="400" fill="#5F5D50" text-anchor="start" >physics and brain</text></g></svg>
+  <p class="fragment" data-fragment-index="3" style="text-align:center;margin:.9em 1.1em 0"><span style="display:inline-block;background:#FDEFE3;border-left:7px solid #F76902;border-radius:3px;padding:.32em 1em;font-family:et-book,Georgia,serif;font-size:.84em;color:#1F1E1B;line-height:1.35">The <b style="color:#C45200;font-weight:700">graph the model learned</b> matches the <b style="color:#C45200;font-weight:700">knowledge graph</b> of music theory.</span></p>
   <div class="ref"><a href="https://scholar.google.com/scholar?q=Copet+et+al.%2C+Simple+and+Controllable+Music+Generation+%28MusicGen%29%2C+NeurIPS+2023" target="_blank" rel="noopener" title="Copet et al., Simple and Controllable Music Generation (MusicGen), NeurIPS 2023">Copet et al. 2023</a><span class="rsep" aria-hidden="true"></span><a href="https://scholar.google.com/scholar?q=D%C3%A9fossez+et+al.%2C+EnCodec%2C+2022" target="_blank" rel="noopener" title="Défossez et al., EnCodec, 2022">Défossez et al. 2022</a><span class="rsep" aria-hidden="true"></span><a href="https://arxiv.org/abs/2607.29086" target="_blank" rel="noopener" title="Yagi, Takamichi, Sato, Tanaka, Morishima, Do Music Foundation Models Embed Pitch in Helical Structure?, arXiv 2607.29086, 2026">Yagi et al. 2026</a></div>
   <aside class="notes">For a CS audience, the one idea: a music generator like MusicGen is a language model. EnCodec, a neural audio codec, turns every 20 milliseconds of sound into 4 integers from a vocabulary of 2048, so a song becomes a sequence of tokens, like words. A transformer, the same kind as GPT, predicts the next token, and the codec turns tokens back into sound. Click: music theory has a graph for pitch. The notes C D E F G A B in a row, and every note linked to the same note one octave up, the orange edges for C. That is a small knowledge graph. Click: what the model learned. Yagi and colleagues feed single notes into music models and look at the internal states, the activation vectors, projected to three dimensions: they form a helix, one turn per octave, so C3, C4 and C5 line up. That is the orange edge of the pitch graph, found inside the model, which was never told about octaves. The learned graph and the knowledge graph agree. Click: and this is not a new idea, there is a whole field on the mathematics of music. David Lewin, Generalized Musical Intervals and Transformations, 1987. Dmitri Tymoczko, A Geometry of Music, 2011, chords as points in a space. David Sulzer, Music, Math, and Mind, 2021, the physics and neuroscience of music. Cover images from Open Library. Bridge: and beyond pitch, does the model know harmony?</aside>
-<script>(function(){var cx=760,y0=356,R=150,H=6.7,TL=22,t0=null;
+<script>(function(){var cx=628,y0=356,R=140,H=6.7,TL=22,t0=null;
 function frame(ts){if(t0===null)t0=ts;var g=document.getElementById('hx3d');if(!g){return;}var fr=g.closest('.fragment');if(fr&&!fr.classList.contains('visible')){t0=ts;}var t=(ts-t0)/1000,ang=0.4*(t-6.5),lit=Math.min(24,Math.floor(t*4));
 var d='',pts=[];for(var q=0;q<=96;q++){var u=q/4,a=2*Math.PI*u/12+ang;var x=cx+R*Math.sin(a),y=y0-u*H+TL*Math.cos(a);d+=(q?' L':'M')+x.toFixed(1)+','+y.toFixed(1);}
 document.getElementById('hx3d-line').setAttribute('d',d);

diff --git a/graph-inside/2026-11-19-cs-colloquium/src/talk.py b/graph-inside/2026-11-19-cs-colloquium/src/talk.py
@@ -2113,7 +2113,7 @@ g += pipe + L(40, 108, 1140, 108, '#D7D2CB', 1)
 gl = T(40, 140, 'Music theory: the pitch graph', 17, 700, INK) + T(40, 160, 'notes in a row, the same note an octave up linked', 13.5, 400, MUT)
 NN = ['C', 'D', 'E', 'F', 'G', 'A', 'B']
 def pn(o, k):
-    return (70 + k * 52, 364 - (o - 3) * 74)
+    return (70 + k * 56, 364 - (o - 3) * 74)
 for o in (3, 4, 5):
     for k in range(6):
         (x1, y1), (x2, y2) = pn(o, k), pn(o, k + 1)
@@ -2132,7 +2132,7 @@ for o in (3, 4, 5):
 gl += T(40, 414, 'knowledge graph, from music theory', 13.5, 600, '#C45200')
 g += F(1, gl)
 # right: what MusicGen learned, the helix in its vector space, every note named
-HXc = 760
+HXc = 628
 hx = T(HXc, 140, 'What the model learned: a helix', 17, 700, INK, 'middle', extra='data-keep="1"') + T(HXc, 160, "in the model's vector space, one dot per note", 13.5, 400, MUT, 'middle')
 hx += f'<g id="hx3d"><path id="hx3d-line" d="" fill="none" stroke="{PURP_}" stroke-width="2" stroke-opacity=".5"/>'
 WHITE = {0: 'C', 2: 'D', 4: 'E', 5: 'F', 7: 'G', 9: 'A', 11: 'B'}
@@ -2142,14 +2142,14 @@ hx += ''.join(f'<text id="hx3d-l{n}" font-size="{13 if n % 12 == 0 else 11.5}" f
 hx += T(HXc, 414, 'learned graph: C3, C4, C5 line up, like the orange edges', 13.5, 600, '#C45200', 'middle')
 g += F(2, hx)
 # books: a whole field studies the math of music (his note 2026-11-18)
-bk = T(966, 140, 'A whole field:', 15, 700, INK) + T(966, 160, 'the math of music', 13.5, 400, MUT)
-BOOKS = [('book-lewin1987.jpg', 105 / 160, 'Lewin, 1987', 'P, R, L as math'), ('book-tymoczko2011.jpg', 63 / 90, 'Tymoczko, 2011', 'chords as points'),
-         ('book-sulzer2021.jpg', 106 / 160, 'Sulzer, 2021', 'physics and brain')]
+bk = T(856, 140, 'A whole field: the math of music', 15, 700, INK)
+BOOKS = [('book-lewin1987.jpg', 0.657, 'Lewin, 1987', 'P, R, L as math'), ('book-tymoczko2011.jpg', 0.7, 'Tymoczko, 2011', 'chords as points'),
+         ('book-sulzer2021.jpg', 0.667, 'Sulzer, 2021', 'physics and brain')]
 for k, (fn, ar, who, what) in enumerate(BOOKS):
-    by = 178 + k * 78
-    bk += img(966, by, round(64 * ar), 64, f'figs/{fn}') + T(1018, by + 28, who, 13, 700, INK) + T(1018, by + 46, what, 12, 400, MUT)
+    bx = 856 + sum(round(140 * a_) + 16 for _, a_, _, _ in BOOKS[:k])
+    bk += img(bx, 160, round(140 * ar), 140, f'figs/{fn}') + T(bx, 320, who, 12.5, 700, INK) + T(bx, 337, what, 11.5, 400, MUT)
 g += F(4, bk)
-HELIX_JS = """<script>(function(){var cx=760,y0=356,R=150,H=6.7,TL=22,t0=null;
+HELIX_JS = """<script>(function(){var cx=628,y0=356,R=140,H=6.7,TL=22,t0=null;
 function frame(ts){if(t0===null)t0=ts;var g=document.getElementById('hx3d');if(!g){return;}var fr=g.closest('.fragment');if(fr&&!fr.classList.contains('visible')){t0=ts;}var t=(ts-t0)/1000,ang=0.4*(t-6.5),lit=Math.min(24,Math.floor(t*4));
 var d='',pts=[];for(var q=0;q<=96;q++){var u=q/4,a=2*Math.PI*u/12+ang;var x=cx+R*Math.sin(a),y=y0-u*H+TL*Math.cos(a);d+=(q?' L':'M')+x.toFixed(1)+','+y.toFixed(1);}
 document.getElementById('hx3d-line').setAttribute('d',d);
@@ -2542,7 +2542,7 @@ def assemble(cover, old):
     beyond_o = retitle(toch(BEYOND5, '0'), 'Knowledge is not only text')
     beyond_o = beyond_o.replace('</section>', Q5_JS + '\n</section>', 1)
     KGT3s = KGT3.replace('  <div class="ref">', '  ' + keybox('Break the ' + kw('knowledge graph') + ' of the real world, and a large language model starts to contradict itself.', 2, '.1em') + '\n  <div class="ref">', 1)
-    MUSA2 = _addbox(MUSA, keybox('The ' + kw('graph the model learned') + ' matches the ' + kw('knowledge graph') + ' of music theory.', 3, '0'))
+    MUSA2 = _addbox(MUSA, keybox('The ' + kw('graph the model learned') + ' matches the ' + kw('knowledge graph') + ' of music theory.', 3, '.9em'))
     MUSB2 = _addbox(MUSB, keybox('The ' + kw('concepts of music theory') + ' are inside, readable from one layer, learned from sound alone.', 2, '0'))
     SUMM2 = _addbox(SUMM, keybox('What we need: compare the ' + kw('inside') + ' before and after a change, and flag the risky ones.', 2, '.1em'))
     TAKE2 = _addbox(TAKEAWAY, keybox('Is there a ' + kw('graph') + ' inside your model?', 3, '.1em'))
